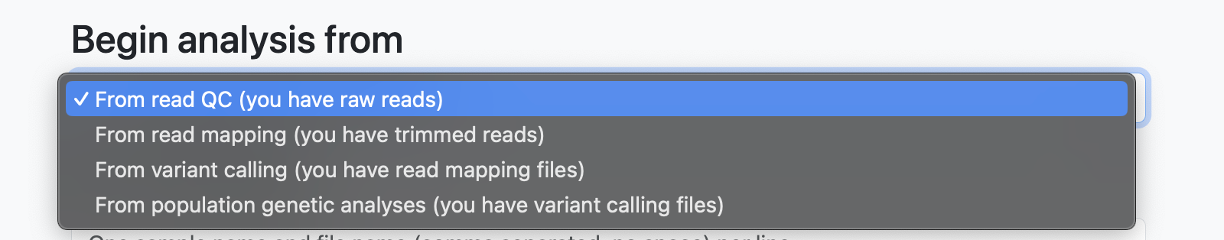
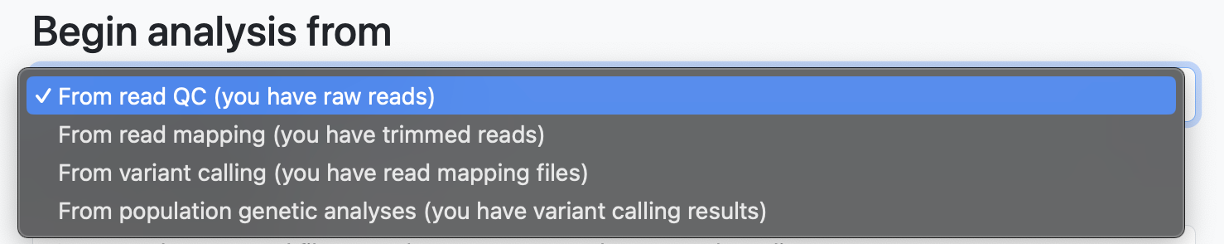
.

Changed region(s): [[0.0, 0.0583, 0.9935, 1.0]]

diff --git a/Parameters/parameter_generator.md b/Parameters/parameter_generator.md
@@ -59,7 +59,8 @@
 
 - Names of populations
 - One population name per line
-- 아래에 test data population name 채워진 그림 부분 추가 후 이 글 삭제
+<p align="center"><img src="../figures/fig_pg1.2.png" width="70%"></p>
+
 
 ### Begin analysis from
 
@@ -74,7 +75,6 @@
 - In the "Input file setting" textbox, the names of a sample and its corresponding sequencing file must be given (one pair per line)
 - Only paired-end sequencing data is supported, therefore for one sample, two read files (one for the first reads and the other for the second reads) must be specified in two different lines
 - Sequencing files must be gzip-compressed fastq files
-- 아래 그림을 실제 data 가 채워진 (test data 활용) 그림으로 바꾸고 이 글 삭제
 <p align="center"><img src="../figures/fig_pg3.png" width="70%"></p>
 
 **From read mapping (you have trimmed reads)**
@@ -83,15 +83,13 @@
 - In the "Input file setting" textbox, the names of a sample and its corresponding sequencing file must be given (one pair per line)
 - Only paired-end sequencing data is supported, therefore for one sample, two read files (one for the first reads and the other for the second reads) must be specified in two different lines
 - Sequencing files must be gzip-compressed fastq files
-- 실제 data 가 채워진 (test data 활용) 그림 추가하고 이 글 삭제
+<p align="center"><img src="../figures/fig_pg3.png" width="70%"></p>
 
 **From variant calling (you have read mapping files)**
 
 - You have read mapping files and therefore you want to begin analysis from variant calling (skip read QC, read trimming, and read mapping)
 - In the "Input file setting" textbox, the names of a sample and its corresponding mapping file must be given (one pair per line)
 - The mapping file must be a BAM file
-- 아래 그림을 실제 data 가 채워진 (test data 활용) 그림으로 바꾸고 이 글 삭제
-
 <p align="center"><img src="../figures/fig_pg4.png" width="70%"></p>
 
 **From population genetic analyses (you have variant calling results)**
@@ -99,8 +97,6 @@
 - You have variant calling results and therefore you want to begin population genetic analyses (skip read QC, read trimming, read mapping, and variant calling)
 - In the "Input variant file name" textbox, a single variant calling result file (gzip-compressed VCF file) must be given
 - In the "Input sample list" textbox, a sample name must be given (one per line)
-- 아래 그림을 실제 data 가 채워진 (test data 활용) 그림으로 바꾸고 이 글 삭제
-
 <p align="center"><img src="../figures/fig_pg5.png" width="70%"></p>
 
 ### Population setting for input files
@@ -120,8 +116,7 @@ A population name is assigned to each input data file in this part.
 - Click the "Population setting for input files" button to display the population setting table as shown above
 - A population and sex information can be set for each input file separately by using the "Population" and "Sex" drop-down textbox
 - A population and sex information can be set for multiple input files together by using the "Apply population" and "Apply sex" bottons and their related drop-down textbox (use mouse shift-click as described on the webpage)
-- The sex information is optional and therefore leave them as "None" in that case (맞는지 확인 후 한글 삭제)
-
+- The sex information is optional and therefore leave them as "None" in that case 
 
 ### Parameter settting for read QC, read alignment, variant calling, and post processing
 
@@ -151,30 +146,9 @@ A population name is assigned to each input data file in this part.
 
 <p align="center"><img src="../figures/fig_pg9.png" width="70%"></p>
 
-아래 설명들 중 PAPipe 에서 만든것이 아닌것들(즉 기존 tool 의 parameter인것들)은 삭제하도록
-
 - Number of PC: the total number of PCs generated by this analysis
 - Objective sum of the proportion of variance explained (%): the cutoff value of the sum of the proportion of variance explained (PVE), only top PCs that their PVE sum satisfies this cutoff are used
 - Max PC: only this number of top PCs are used to create the PCA plots between two PCs
-
-
-**Population tree analysis**
-
-<p align="center"><img src="../figures/fig_pg10.png" width="70%"></p>
-
-- m (maximum number of migration edges to add): PAPipe runs the TreeMix program multiple times by using different values of the number of migration edge parameter (from 0 to a given number).
-
-**Population tree analysis**
-
-<p align="center"><img src="../figures/fig_pg11.png" width="70%"></p>
-
-- k (maximum number of ancestors): PAPipe runs the ADMIXTURE program multiple times by using different values of the number of ancestor parameter (from 2 to a given number).
-
-**Linkage disequilibrium decay analysis**
-
-<p align="center"><img src="../figures/fig_pg12.png" width="70%"></p>
-
-- MaxDist (bp) (ex: 500,1000,5000,10000): PAPipe runs the PopLDdecay program multiple times by using different values of the maxdist parameter (for given numbers separated by comma)
 
 **Fixation index analysis**
 
